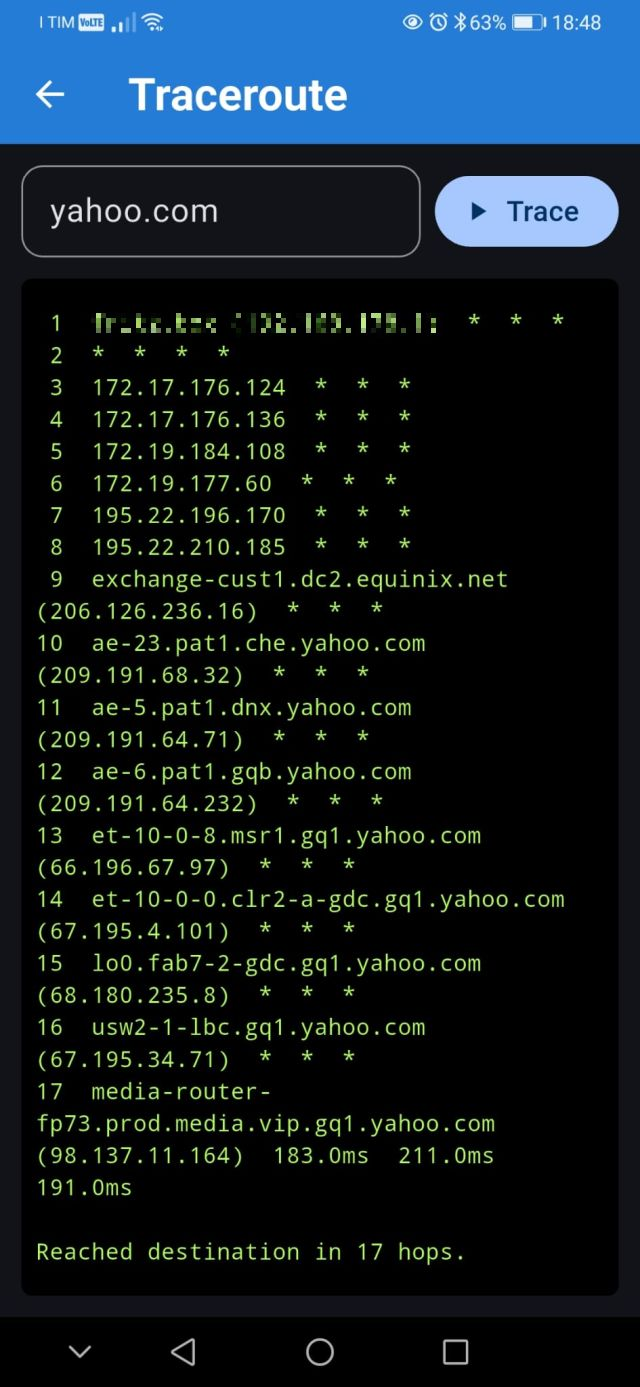
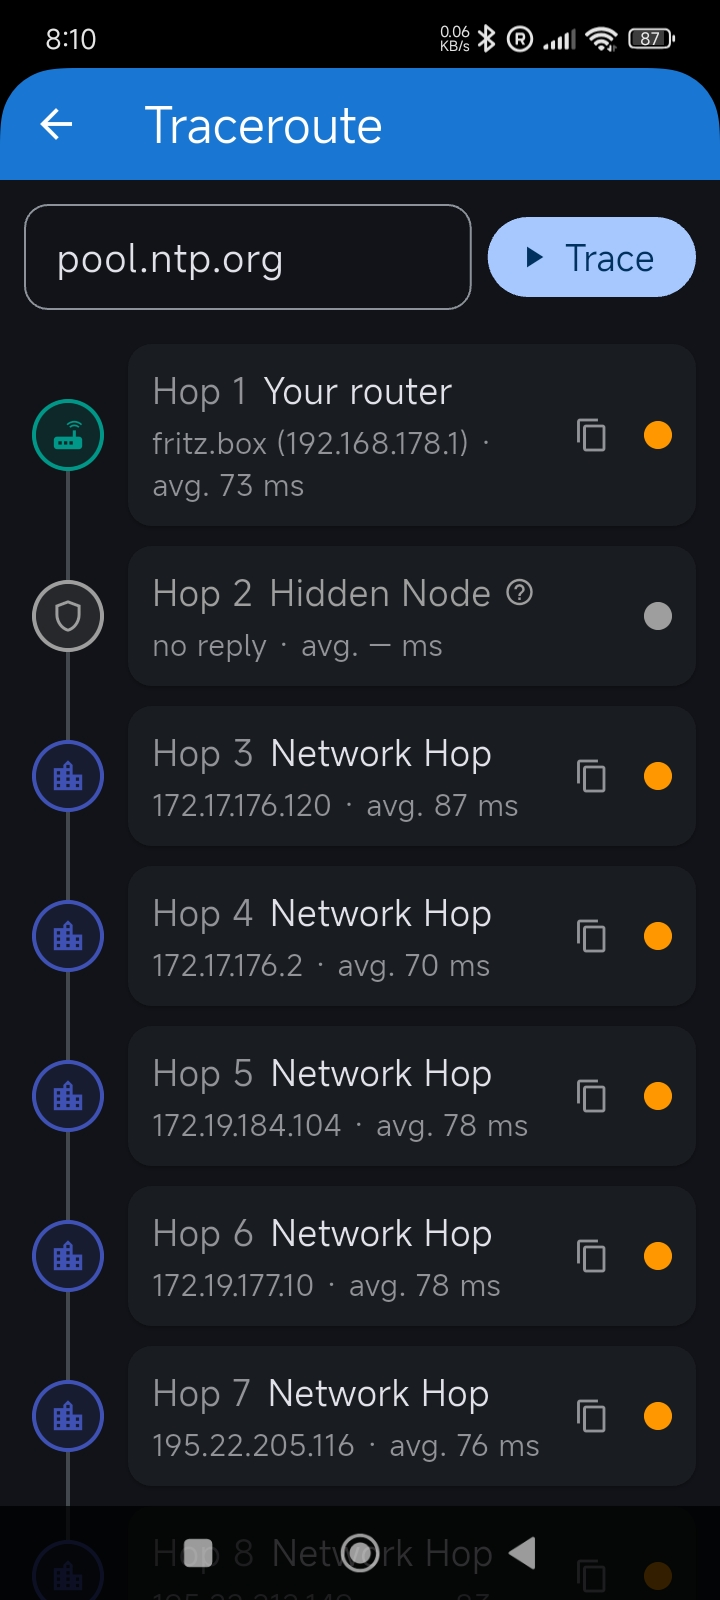
Add more UT to improve coverage

diff --git a/test/camera_scan_provider_test.dart b/test/camera_scan_provider_test.dart
@@ -1,3 +1,7 @@
+
+import 'dart:io';
+ 
+import 'package:flutter/services.dart';
 import 'package:flutter_test/flutter_test.dart';
 import 'package:shared_preferences/shared_preferences.dart';
 import 'package:simply_net/providers/camera_scan_provider.dart';
@@ -7,7 +11,25 @@ import 'package:simply_net/services/scan_storage.dart';
 void main() {
   TestWidgetsFlutterBinding.ensureInitialized();
 
-  setUp(() => SharedPreferences.setMockInitialValues({}));
+  const pathProvider = MethodChannel('plugins.flutter.io/path_provider');
+  late Directory tmp;
+ 
+  setUp(() async {
+    SharedPreferences.setMockInitialValues({});
+    // LogService.createLog (reached when a camera is found) needs a docs dir.
+    tmp = await Directory.systemTemp.createTemp('simplynet_cam_prov_test');
+    TestDefaultBinaryMessengerBinding.instance.defaultBinaryMessenger
+        .setMockMethodCallHandler(pathProvider, (call) async {
+      if (call.method == 'getApplicationDocumentsDirectory') return tmp.path;
+      return null;
+    });
+  });
+ 
+  tearDown(() {
+    TestDefaultBinaryMessengerBinding.instance.defaultBinaryMessenger
+        .setMockMethodCallHandler(pathProvider, null);
+    if (tmp.existsSync()) tmp.deleteSync(recursive: true);
+  });
 
   group('CameraScanProvider', () {
     test('starts empty and not scanning', () {
@@ -78,4 +100,109 @@ void main() {
       expect(await p.shouldAutoScan(), isFalse);
     });
   });
+  group('CameraScanProvider scan lifecycle', () {
+    // 192.0.2.0/24 is RFC 5737 TEST-NET-1 (reserved, unroutable): probes never
+    // connect, so a scan completes with zero cameras without real network I/O.
+    test('startScan(knownIps) probes only the given hosts and completes',
+        () async {
+      final p = CameraScanProvider();
+      p.startScan('192.0.2.0/24',
+          knownIps: ['192.0.2.1', '192.0.2.2'], logging: true);
+      expect(p.scanning, isTrue);
+      expect(p.cidr, '192.0.2.0/24');
+      expect(p.total, 2);
+ 
+      final done =
+          await _waitUntil(() => !p.scanning, const Duration(seconds: 25));
+      expect(done, isTrue, reason: 'scan did not finish in time');
+      expect(p.results, isEmpty);
+      p.dispose();
+    });
+ 
+    test('startScan(full subnet) completes with no results', () async {
+      final p = CameraScanProvider();
+      p.startScan('192.0.2.0/30', logging: false);
+      expect(p.scanning, isTrue);
+ 
+      final done =
+          await _waitUntil(() => !p.scanning, const Duration(seconds: 25));
+      expect(done, isTrue, reason: 'scan did not finish in time');
+      expect(p.results, isEmpty);
+      p.dispose();
+    });
+ 
+    test('startScan is a no-op while a scan is already running', () {
+      final p = CameraScanProvider();
+      p.startScan('192.0.2.0/30', logging: false);
+      expect(p.scanning, isTrue);
+      p.startScan('10.0.0.0/30', logging: false); // ignored — already scanning
+      expect(p.cidr, '192.0.2.0/30');
+      p.dispose();
+    });
+ 
+    test('stopScan clears scanning state and notifies', () {
+      final p = CameraScanProvider();
+      var notified = 0;
+      p.addListener(() => notified++);
+      p.startScan('192.0.2.0/30', logging: true);
+      p.stopScan();
+      expect(p.scanning, isFalse);
+      expect(notified, greaterThan(0));
+      p.dispose();
+    });
+ 
+    test('dispose during an in-flight scan does not throw', () {
+      final p = CameraScanProvider();
+      p.startScan('192.0.2.0/30', logging: false);
+      expect(p.scanning, isTrue);
+      expect(p.dispose, returnsNormally);
+    });
+ 
+    test('finds a live camera, sorts, caches and logs it', () async {
+      // Open an RTSP-alternate port (8554) on loopback: a camera-specific port,
+      // so detectHost flags it without any HTTP banner. Drives the provider's
+      // onData → sort → save → log path with a real result.
+      ServerSocket? srv;
+      try {
+        srv = await ServerSocket.bind(InternetAddress.loopbackIPv4, 8554);
+      } on SocketException {
+        return; // Port already in use on this host — skip silently.
+      }
+      srv.listen((s) => s.destroy());
+ 
+      final p = CameraScanProvider();
+      try {
+        p.startScan('127.0.0.1/32',
+            knownIps: ['127.0.0.1'], logging: true);
+        final done =
+            await _waitUntil(() => !p.scanning, const Duration(seconds: 25));
+        expect(done, isTrue, reason: 'scan did not finish in time');
+        expect(p.results, hasLength(1));
+        expect(p.results.single.ip, '127.0.0.1');
+        expect(p.results.single.port, 8554);
+ 
+        // Result was persisted to local storage.
+        final snap = await ScanStorage.load(ScanStorage.kCameras);
+        expect(snap, isNotNull);
+        expect(snap!.items, hasLength(1));
+        // Let the async log write settle before tearing down the mock.
+        await Future<void>.delayed(const Duration(milliseconds: 200));
+      } finally {
+        await srv.close();
+        p.dispose();
+      }
+    }, timeout: const Timeout(Duration(seconds: 30)));
+  });
+  
+
+}
+
+// Polls [cond] every 50ms until it is true or [timeout] elapses.
+Future<bool> _waitUntil(bool Function() cond, Duration timeout) async {
+  final deadline = DateTime.now().add(timeout);
+  while (DateTime.now().isBefore(deadline)) {
+    if (cond()) return true;
+    await Future<void>.delayed(const Duration(milliseconds: 50));
+  }
+  return cond();
 }

diff --git a/test/iot_scan_provider_test.dart b/test/iot_scan_provider_test.dart
@@ -1,3 +1,6 @@
+import 'dart:io';
+ 
+import 'package:flutter/services.dart';
 import 'package:flutter_test/flutter_test.dart';
 import 'package:shared_preferences/shared_preferences.dart';
 import 'package:simply_net/providers/iot_scan_provider.dart';
@@ -7,7 +10,26 @@ import 'package:simply_net/services/scan_storage.dart';
 void main() {
   TestWidgetsFlutterBinding.ensureInitialized();
 
-  setUp(() => SharedPreferences.setMockInitialValues({}));
+  const pathProvider = MethodChannel('plugins.flutter.io/path_provider');
+  late Directory tmp;
+ 
+  setUp(() async {
+    SharedPreferences.setMockInitialValues({});
+    // LogService.createLog (reached on the scan-complete path) needs a docs dir.
+    tmp = await Directory.systemTemp.createTemp('simplynet_iot_prov_test');
+    TestDefaultBinaryMessengerBinding.instance.defaultBinaryMessenger
+        .setMockMethodCallHandler(pathProvider, (call) async {
+      if (call.method == 'getApplicationDocumentsDirectory') return tmp.path;
+      return null;
+    });
+  });
+ 
+  tearDown(() {
+    TestDefaultBinaryMessengerBinding.instance.defaultBinaryMessenger
+        .setMockMethodCallHandler(pathProvider, null);
+    if (tmp.existsSync()) tmp.deleteSync(recursive: true);
+  });
+ 
 
   group('IotScanProvider', () {
     test('starts empty and not scanning', () {
@@ -83,4 +105,78 @@ void main() {
       expect(await p.shouldAutoScan(), isFalse);
     });
   });
+ 
+  group('IotScanProvider scan lifecycle', () {
+    // 192.0.2.0/24 is RFC 5737 TEST-NET-1 (reserved, unroutable): probes never
+    // connect, so a scan completes with zero devices without real network I/O.
+    // FgService.start/stop early-return off-Android, so they are safe to drive.
+    test('startScan(knownIps) probes only the given hosts and completes',
+        () async {
+      final p = IotScanProvider();
+      p.startScan('192.0.2.0/24',
+          knownIps: ['192.0.2.1', '192.0.2.2'], logging: true);
+      expect(p.scanning, isTrue);
+      expect(p.cidr, '192.0.2.0/24');
+      expect(p.total, 2);
+ 
+      final done =
+          await _waitUntil(() => !p.scanning, const Duration(seconds: 25));
+      expect(done, isTrue, reason: 'scan did not finish in time');
+      expect(p.devices, isEmpty);
+      // Let the async onDone (save + log) settle before disposing.
+      await Future<void>.delayed(const Duration(milliseconds: 200));
+      p.dispose();
+    });
+ 
+    test('startScan(full subnet) derives the host total and completes',
+        () async {
+      final p = IotScanProvider();
+      p.startScan('192.0.2.0/30', logging: false); // /30 → 2 host addresses
+      expect(p.scanning, isTrue);
+      expect(p.total, 2);
+ 
+      final done =
+          await _waitUntil(() => !p.scanning, const Duration(seconds: 25));
+      expect(done, isTrue, reason: 'scan did not finish in time');
+      expect(p.devices, isEmpty);
+      p.dispose();
+    });
+ 
+    test('startScan is a no-op while a scan is already running', () {
+      final p = IotScanProvider();
+      p.startScan('192.0.2.0/30', logging: false);
+      expect(p.scanning, isTrue);
+      p.startScan('10.0.0.0/30', logging: false); // ignored — already scanning
+      expect(p.cidr, '192.0.2.0/30');
+      p.dispose();
+    });
+ 
+    test('stopScan clears scanning state and notifies', () {
+      final p = IotScanProvider();
+      var notified = 0;
+      p.addListener(() => notified++);
+      p.startScan('192.0.2.0/30', logging: false);
+      p.stopScan();
+      expect(p.scanning, isFalse);
+      expect(notified, greaterThan(0));
+      p.dispose();
+    });
+ 
+    test('dispose during an in-flight scan does not throw', () {
+      final p = IotScanProvider();
+      p.startScan('192.0.2.0/30', logging: false);
+      expect(p.scanning, isTrue);
+      expect(p.dispose, returnsNormally);
+    });
+  });
+}
+ 
+/// Polls [cond] every 50ms until it is true or [timeout] elapses.
+Future<bool> _waitUntil(bool Function() cond, Duration timeout) async {
+  final deadline = DateTime.now().add(timeout);
+  while (DateTime.now().isBefore(deadline)) {
+    if (cond()) return true;
+    await Future<void>.delayed(const Duration(milliseconds: 50));
+  }
+  return cond();
 }

diff --git a/test/ookla_speed_test_test.dart b/test/ookla_speed_test_test.dart
@@ -58,4 +58,54 @@ void main() {
       expect(ul.queryParameters['nocache'], isNotEmpty);
     });
   });
+   
+  group('OoklaServer.label', () {
+    test('uses sponsor + place when both present', () {
+      const s = OoklaServer(
+          host: 'h:8080', sponsor: 'Acme', name: 'Berlin', country: 'Germany');
+      expect(s.label, 'Acme — Berlin, Germany');
+    });
+ 
+    test('falls back to place when sponsor is empty', () {
+      const s = OoklaServer(host: 'h:8080', name: 'Paris', country: 'France');
+      expect(s.label, 'Paris, France');
+    });
+ 
+    test('falls back to sponsor when place is empty', () {
+      const s = OoklaServer(host: 'h:8080', sponsor: 'Globex');
+      expect(s.label, 'Globex');
+    });
+ 
+    test('falls back to host when sponsor and place are empty', () {
+      const s = OoklaServer(host: 'srv.example.com:8080');
+      expect(s.label, 'srv.example.com:8080');
+    });
+ 
+    test('joins only the non-empty of name/country', () {
+      const onlyName = OoklaServer(host: 'h', name: 'Rome');
+      expect(onlyName.label, 'Rome');
+      const onlyCountry = OoklaServer(host: 'h', country: 'Italy');
+      expect(onlyCountry.label, 'Italy');
+    });
+  });
+ 
+  group('OoklaSpeedTest.bestServer', () {
+    test('throws when the server list is empty', () {
+      expect(OoklaSpeedTest.bestServer(const []), throwsA(isA<Exception>()));
+    });
+ 
+    test('throws when no server is reachable', () async {
+      // RFC 5737 TEST-NET-1 hosts are unroutable, so every probe times out and
+      // bestServer reports that none answered (exercises the worker + error
+      // completion path without real network dependence).
+      const servers = [
+        OoklaServer(host: '192.0.2.1:8080'),
+        OoklaServer(host: '192.0.2.2:8080'),
+      ];
+      await expectLater(
+        OoklaSpeedTest.bestServer(servers),
+        throwsA(isA<Exception>()),
+      );
+    }, timeout: const Timeout(Duration(seconds: 30)));
+  });
 }

diff --git a/test/foreground_service_test.dart b/test/foreground_service_test.dart
@@ -1,0 +1,45 @@
+
+import 'package:flutter/material.dart';
+import 'package:flutter_test/flutter_test.dart';
+import 'package:simply_net/services/foreground_service.dart';
+ 
+void main() {
+  TestWidgetsFlutterBinding.ensureInitialized();
+ 
+  // On the Linux/host test VM Platform.isAndroid is false, so each public
+  // method takes its early-return guard without touching a platform channel.
+  // These tests pin that contract: the API is always safe to call off-Android.
+  group('FgService platform guards (non-Android)', () {
+    test('start completes without starting a service', () {
+      expect(FgService.start(title: 'Scan', body: 'Working…'), completes);
+    });
+ 
+    test('update completes', () {
+      expect(FgService.update(body: 'progress…'), completes);
+    });
+ 
+    test('update with a title completes', () {
+      expect(FgService.update(title: 'SimplyNet', body: 'x'), completes);
+    });
+ 
+    test('stop completes', () {
+      expect(FgService.stop(), completes);
+    });
+ 
+    test('stop with a doneBody completes', () {
+      expect(FgService.stop(doneBody: 'Scan complete'), completes);
+    });
+ 
+    test('requestPermissions completes', () {
+      expect(FgService.requestPermissions(), completes);
+    });
+  });
+ 
+  group('FgService.wrap', () {
+    test('returns a widget wrapping its child', () {
+      const child = SizedBox.shrink();
+      final wrapped = FgService.wrap(child);
+      expect(wrapped, isA<Widget>());
+    });
+  });
+}

diff --git a/assets/tracert_info.md b/assets/tracert_info.md
@@ -11,11 +11,11 @@ Imagine you live in Rome, Italy, and you want to mail a physical letter to a fri
 Your letter does not magically teleport across the Atlantic. Instead, it goes on a journey:
 
 1. It starts at your local neighborhood post office.
-1. It gets loaded onto a truck to a regional sorting facility in Rome.
-1. It is flown to an international airport hub in London.
-1. It flies across the ocean to a customs facility in New York.
-1. It goes to a local delivery station in Manhattan.
-1. Finally, it arrives at your friend's house.
+2. It gets loaded onto a truck to a regional sorting facility in Rome.
+3. It is flown to an international airport hub in London.
+4. It flies across the ocean to a customs facility in New York.
+5. It goes to a local delivery station in Manhattan.
+6. Finally, it arrives at your friend's house.
 
 In the digital world, every time you visit a website (like Google, Netflix, or your favorite blog), your phone is sending millions of tiny digital envelopes called "packets" across the globe.
 

diff --git a/assets/whois_info.md b/assets/whois_info.md
@@ -52,5 +52,5 @@ If your phone rings and shows an unknown number like `1-800-555-0199`, you might
 By combining these three features, our tool gives you a complete "background check" on any digital target:
 
 1. DNS Resolution tells you the IP address ("phone number") of a website name.
-1. Reverse Resolution tells you the website name ("Caller ID") of a mystery IP address.
-1. WHOIS tells you the actual legal owner, registrar, and expiration dates of that property.
+2. Reverse Resolution tells you the website name ("Caller ID") of a mystery IP address.
+3. WHOIS tells you the actual legal owner, registrar, and expiration dates of that property.
